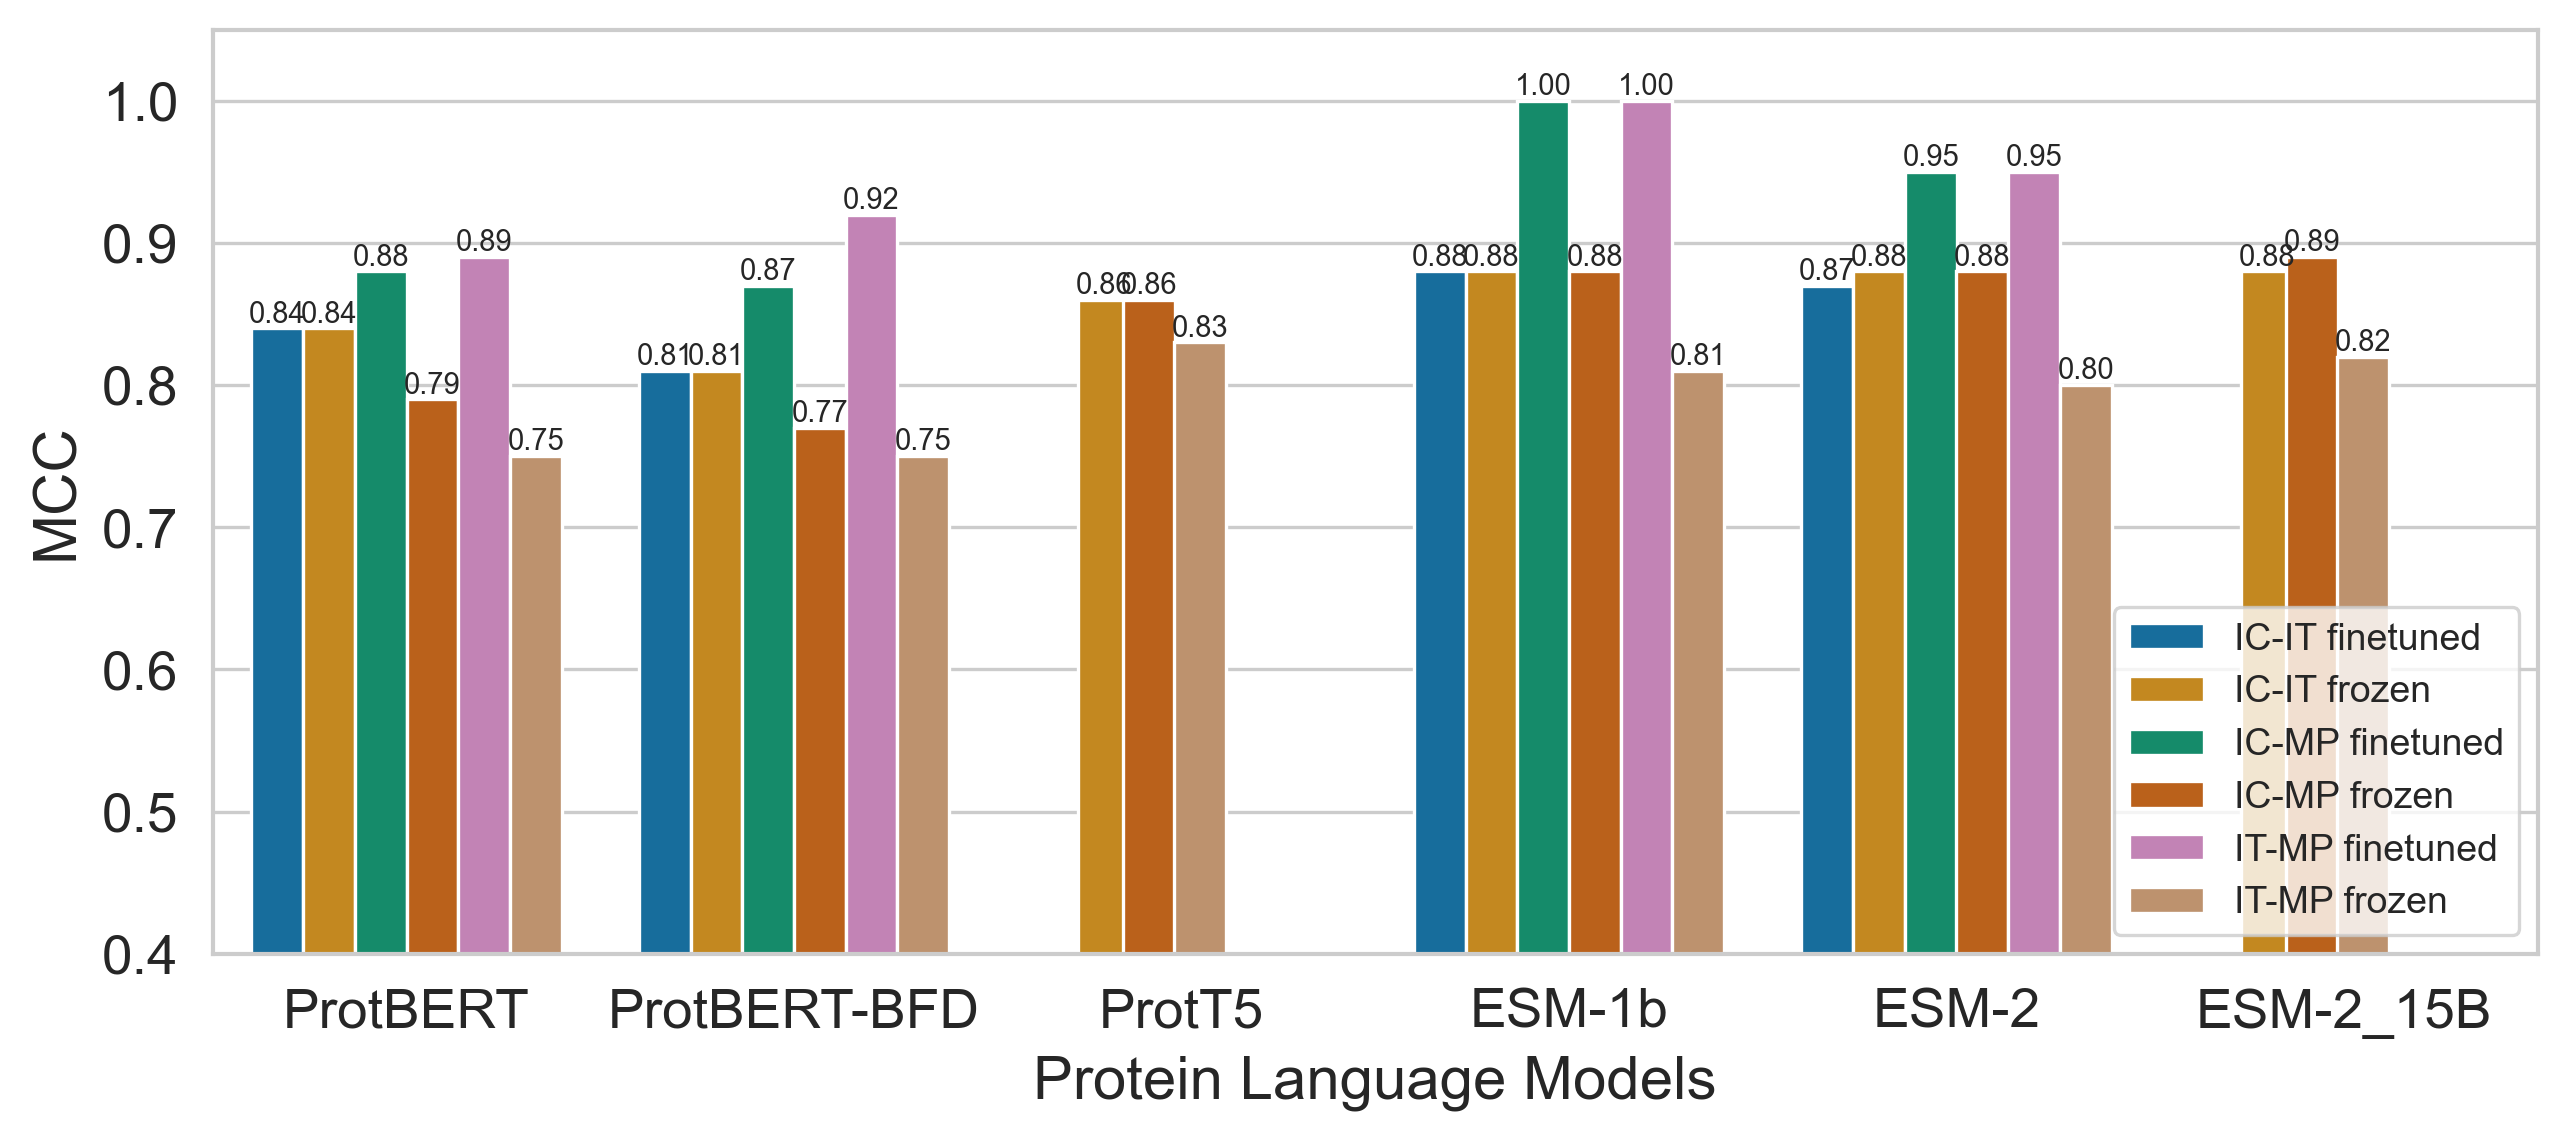
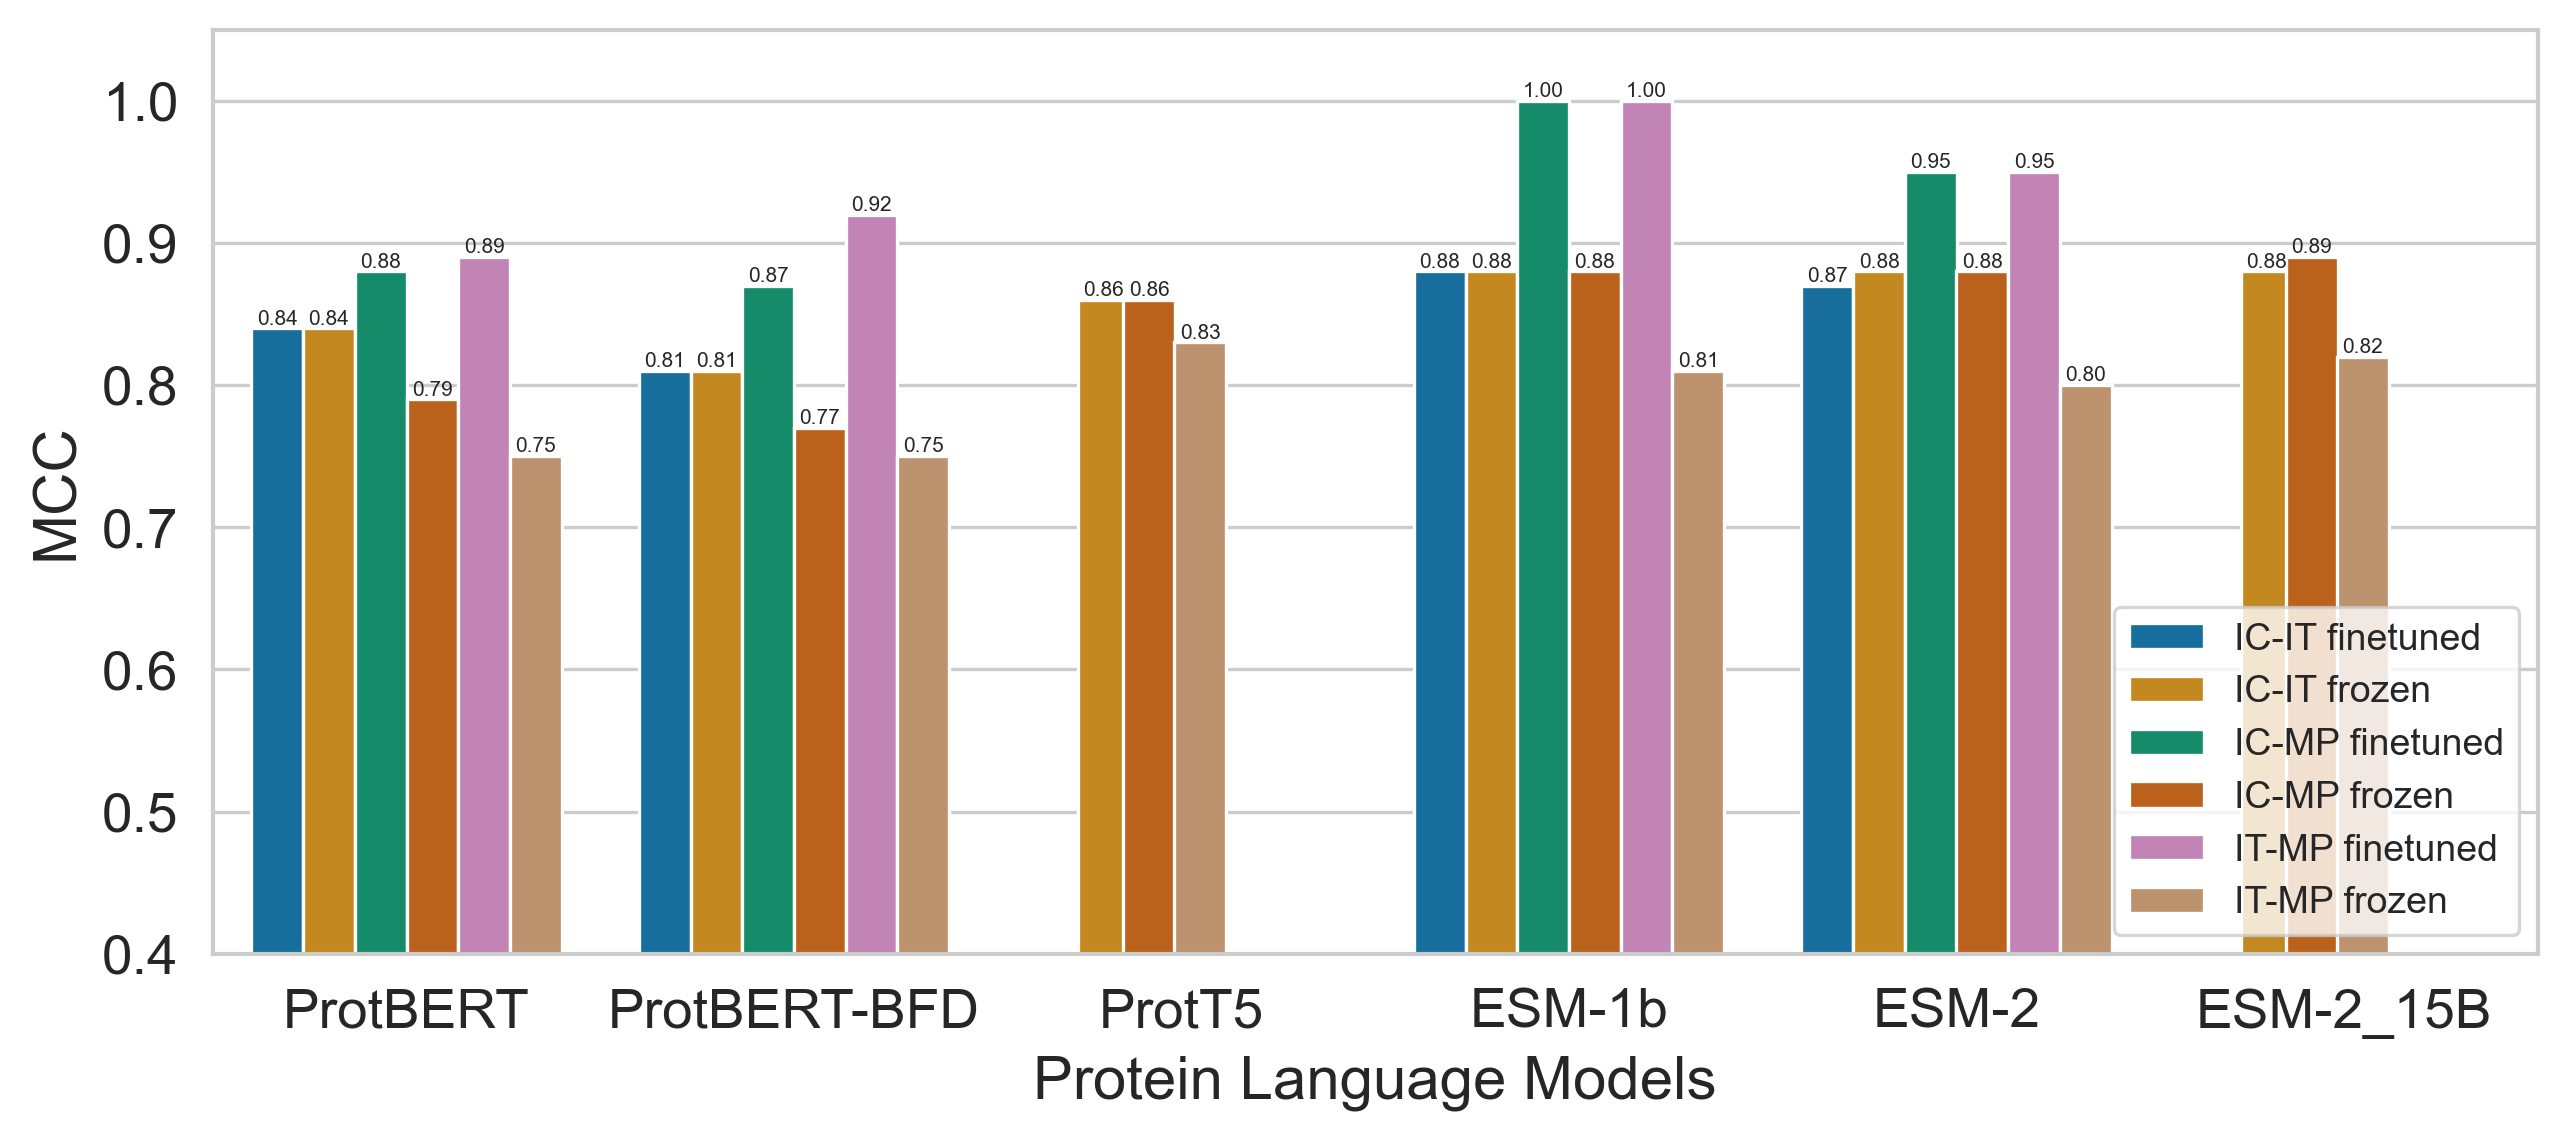
results

diff --git a/make_tables_half_full.py b/make_tables_half_full.py
@@ -118,7 +118,7 @@ for i, bar in enumerate(ax.containers):
             p.set_x(p.get_x() - shift_width if i == 3 or i == 5 else p.get_x())
         elif p.get_x() in [2.2666666666666666, 5.266666666666667]:
             p.set_x(p.get_x() - shift_width*1.9 if i == 3 or i == 5 else p.get_x())
-            
+
 # Loop through each bar in the plot
 for p in ax.patches:
     # Get the bar's x and y coordinates and its height
@@ -126,7 +126,7 @@ for p in ax.patches:
     y = p.get_height()
     height = p.get_height()
     # Write the value of the bar on top of it
-    ax.text(x, y, f'{height:.2f}', ha='center', va='bottom', fontsize=7)
+    ax.text(x, y, f'{height:.2f}', ha='center', va='bottom', fontsize=5)
 
 # plt.show()
 # Save the plot

diff --git a/make_tables_frozen_finetuned.py b/make_tables_frozen_finetuned.py
@@ -169,7 +169,7 @@ for p in ax.patches:
     y = p.get_height()
     height = p.get_height()
     # Write the value of the bar on top of it
-    ax.text(x, y, f'{height:.2f}', ha='center', va='bottom', fontsize=7)
+    ax.text(x, y, f'{height:.2f}', ha='center', va='bottom', fontsize=5)
 
 # plt.show()
 # Save the plot
